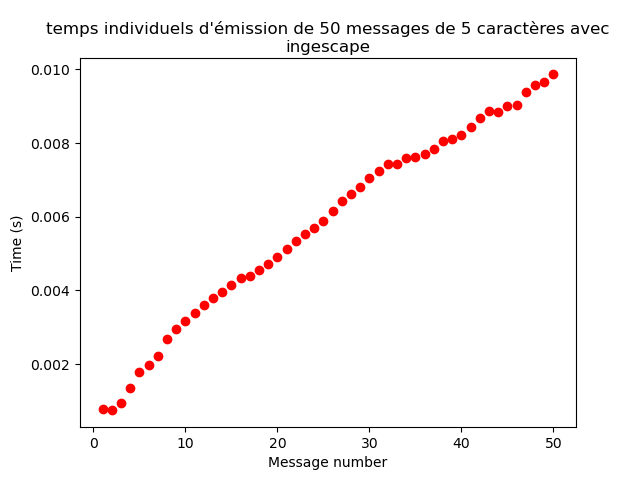
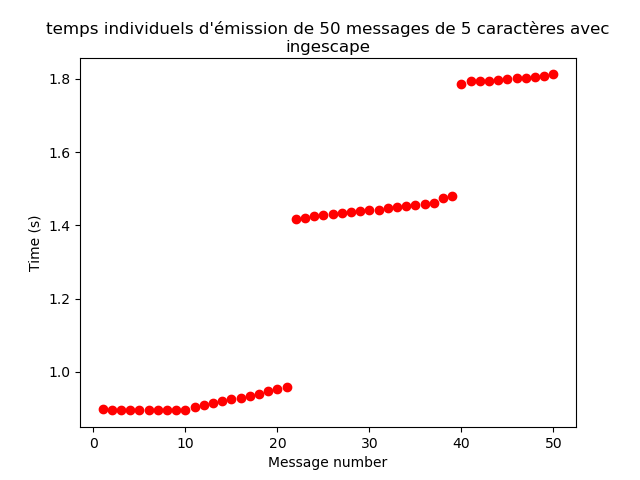
maj receiver ready ingescape

diff --git a/ingescape_protocol.py b/ingescape_protocol.py
@@ -23,6 +23,7 @@ def string_input_callback(iop_type, iop_name, value_type, value, my_data):
     else:
         print("error callback_self")
 
+
 def on_agent_event_callback(event, uuid, name, event_data, my_data):
     callback_self=my_data
     if isinstance(callback_self,IngescapeProtocol):
@@ -37,10 +38,11 @@ def on_agent_event_callback(event, uuid, name, event_data, my_data):
             print(f"{callback_self.APPNAME}: AGENT_UPDATED_DEFINITION about {name}")
         elif event == igs.AGENT_KNOWS_US:
             print(f"{callback_self.APPNAME}: AGENT_KNOWS_US about {name}")
-            if callback_self.com =="SUB":
-                str_ready = "RECEIVER_READY "+str(callback_self.id_rec)
-                print(f"test entre {str_ready}" )
-                callback_self.queue.put(str_ready)                
+            if callback_self.com =="PUB":
+                if "Receiver" in name:
+                    str_ready = "RECEIVER_READY "+str(name)
+                    print(f"test entre {str_ready}" )
+                    callback_self.queue.put(str_ready)   
         elif event == igs.AGENT_EXITED:
             print(f"{callback_self.APPNAME}: AGENT_EXITED about {name}")
         elif event == igs.AGENT_UPDATED_MAPPING:
@@ -69,6 +71,7 @@ class IngescapeProtocol(AbstractProtocol):
         self.id_rec=id_rec
         self.APPNAME=""
         self.queue = queue
+        self.ready_sent=False
 
         
         

diff --git a/main_send.py b/main_send.py
@@ -52,11 +52,14 @@ def main_send(protocol, message_count, port,length, queue, logger, traitement, f
     
 
     recvrdy=""
-    while(not (str(nbr_processes-1) in recvrdy) ):
-            print("recvrdy")
-            recvrdy = queue.get()
-            print(recvrdy)
-
+    count = 0
+    while(count < (nbr_processes) ):
+        recvrdy = queue.get()
+        if "RECEIVER_READY" in recvrdy :                       
+            print(str("j'ai recu ")+recvrdy )
+            count +=1
+            print(count)
+    print("we passed")
     if True:
         sleep(2)
 
